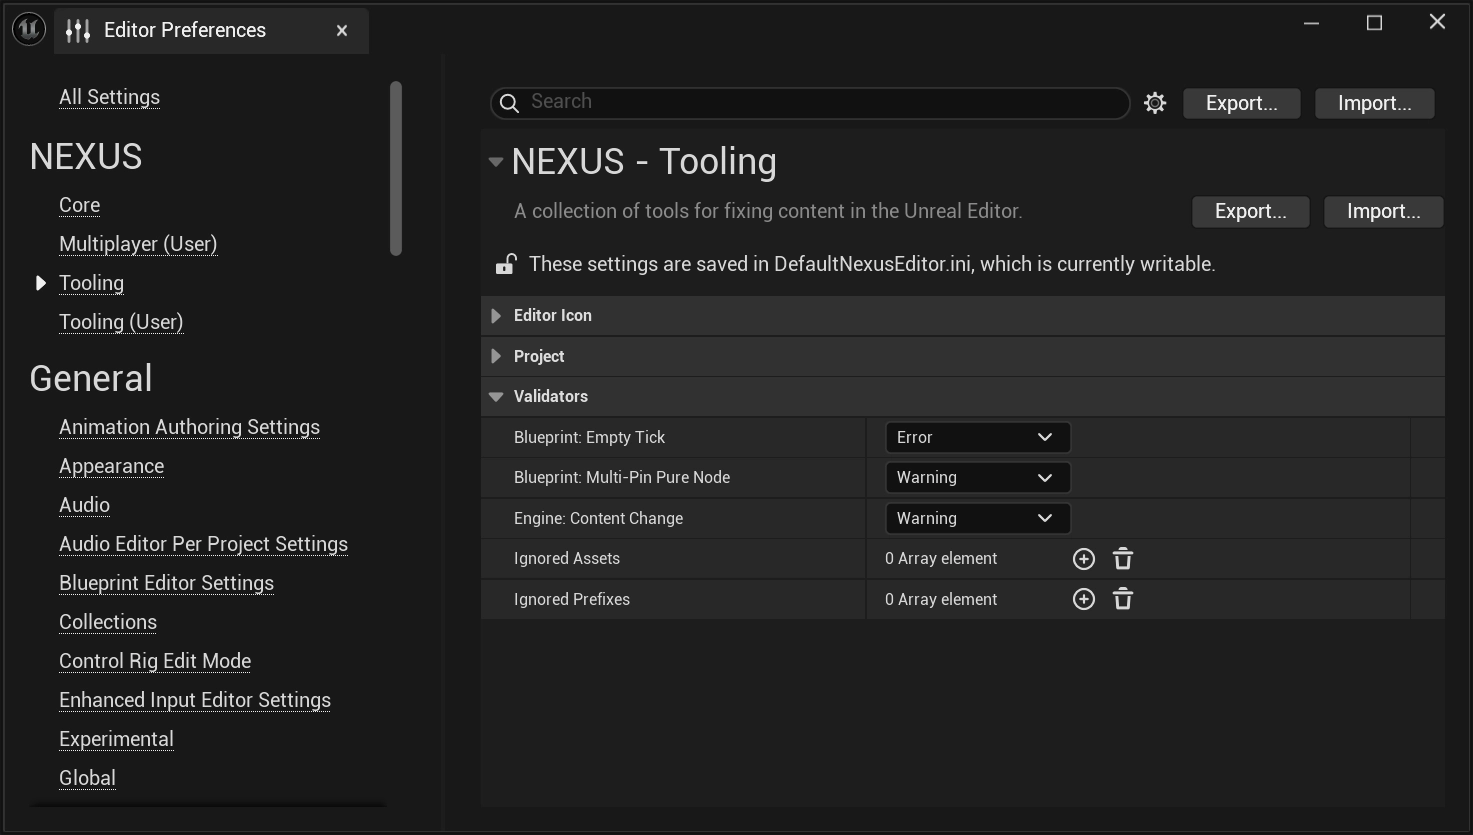
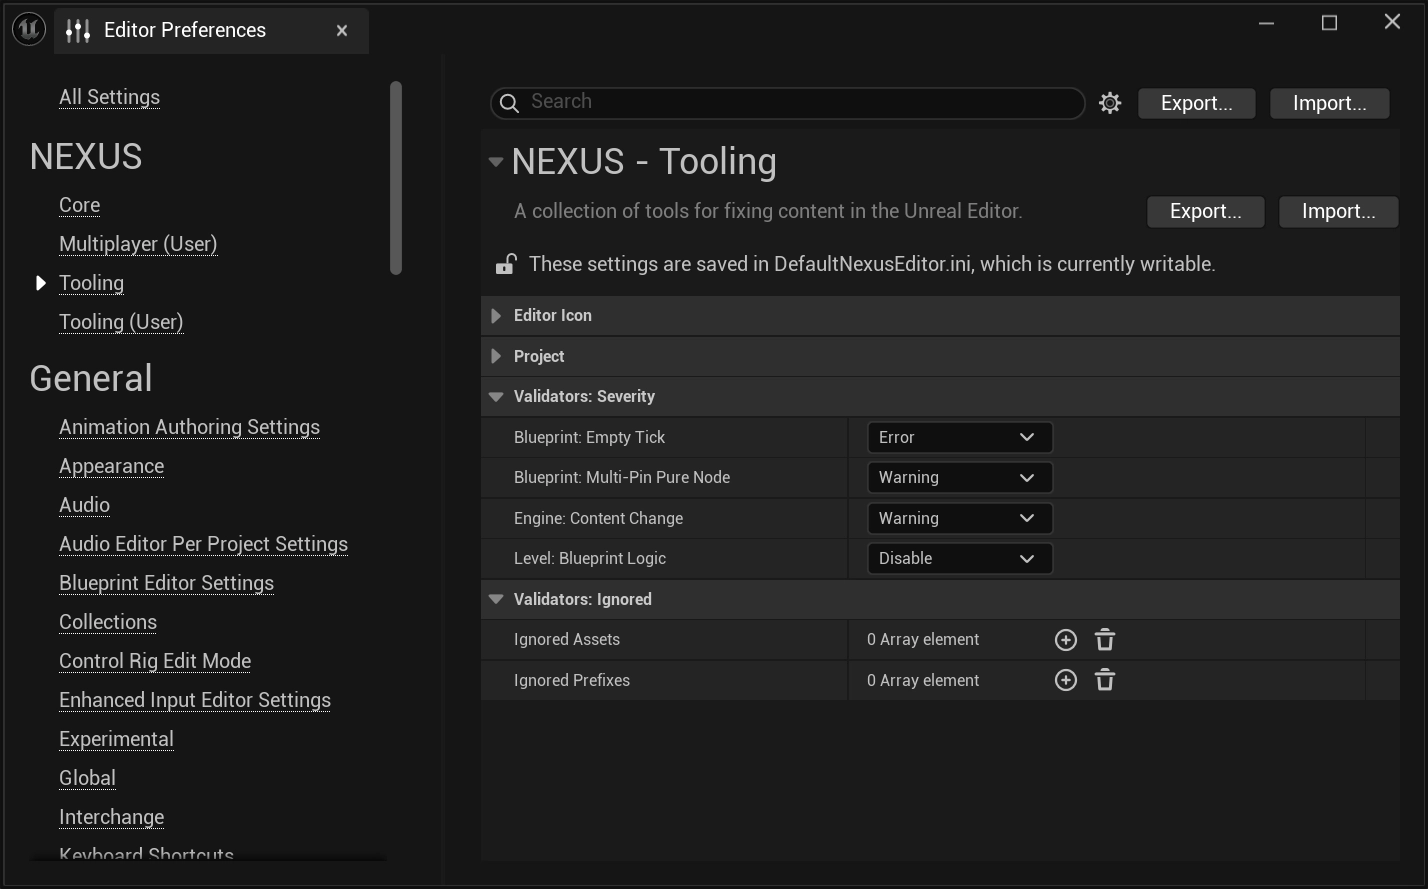
Stub for level blueprint

diff --git a/docs/plugins/tooling/validators/blueprint-validator.md b/docs/plugins/tooling/validators/blueprint-validator.md
@@ -19,7 +19,7 @@ The _hidden_ performance killer, the **empty tick**. This function of the `UNBlu
 ### Severity
 
 By default, the severity of this validation is set to `Error` due to its direct performance impact and relative ease of resolution. Should you wish to change the level (or disable) of this validation, it can be found in the 
-project-wide in `Editor Preferences > NEXUX > Fixers > Blueprint: Empty Tick`
+project-wide in `Editor Preferences > NEXUS > Tooling > Blueprint: Empty Tick`
 
 
 ![Empty Tick Severity](validator-settings.webp)

diff --git a/docs/plugins/tooling/validators/level-blueprint-validator.md b/docs/plugins/tooling/validators/level-blueprint-validator.md
@@ -1,0 +1,21 @@
+---
+sidebar_position: 3
+tags: [0.2.7]
+---
+
+# Level Blueprint Validator
+
+A validator that looks at maps to see if any active nodes exist on the `LevelScriptBlueprint`.
+
+:::warning
+
+By default, this validator is **disabled**.
+
+::: 
+
+### Config
+
+The severity and behaviour of this validator can be configured, project-wide in `Editor Preferences > NEXUS > Tooling > Level: Blueprint Logic`
+
+![Engine Content Preferences](validator-settings.webp)
+

diff --git a/docs/plugins/tooling/validators/engine-content-validator.md b/docs/plugins/tooling/validators/engine-content-validator.md
@@ -28,7 +28,7 @@ While there is no officially stated best-practice for when you explicitly need t
 
 ### Config
 
-The severity and behaviour of this validator can be configured, project-wide in `Editor Preferences > NEXUX > Fixers > Engine: Content Change`
+The severity and behaviour of this validator can be configured, project-wide in `Editor Preferences > NEXUS > Tooling > Engine: Content Change`
 
 ![Engine Content Preferences](validator-settings.webp)
 
